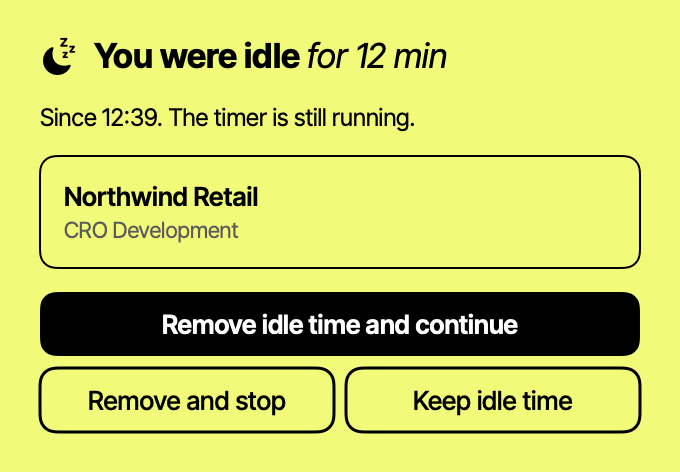
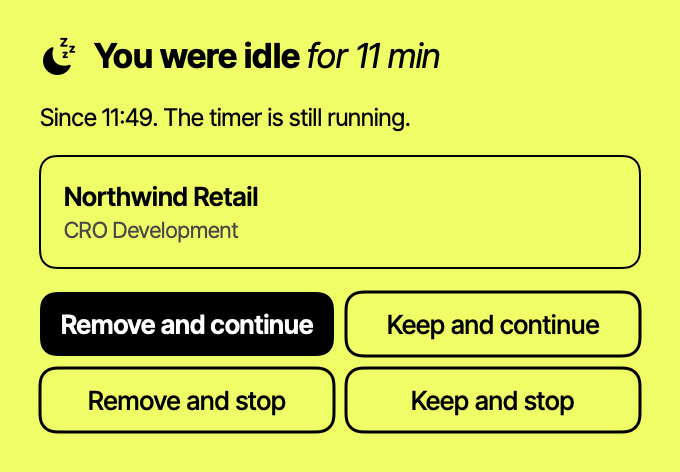
feat: the idle question can keep the idle time and stop

diff --git a/Sources/Tempo/IdleMonitor.swift b/Sources/Tempo/IdleMonitor.swift
@@ -87,7 +87,8 @@ final class IdleMonitor {
             guard let self, !dryRun else { return }
             Task {
                 switch choice {
-                case .keep: break
+                case .keepAndContinue: break
+                case .keepAndStop: await self.store.stop()
                 case .removeAndContinue: await self.store.removeIdleTime(since: idleStart, keepRunning: true)
                 case .removeAndStop: await self.store.removeIdleTime(since: idleStart, keepRunning: false)
                 }
@@ -141,7 +142,7 @@ final class IdleMonitor {
 
 /// The idle question. Mellow Yellow with black, in both themes, so it stands out on any screen.
 struct IdlePromptView: View {
-    enum Choice { case keep, removeAndContinue, removeAndStop }
+    enum Choice { case keepAndContinue, keepAndStop, removeAndContinue, removeAndStop }
 
     @EnvironmentObject var store: TimeStore
     let idleStart: Date
@@ -162,14 +163,19 @@ struct IdlePromptView: View {
                     .padding(12)
                     .overlay(RoundedRectangle(cornerRadius: 8).stroke(Color.black, lineWidth: 1))
             }
-            VStack(spacing: 6) {
-                Button("Remove idle time and continue") { choose(.removeAndContinue) }
-                    .buttonStyle(InkButtonStyle(filled: true))
-                    .keyboardShortcut(.defaultAction)
-                HStack(spacing: 6) {
+            // Columns: remove or keep the idle time. Rows: continue or stop the timer.
+            Grid(horizontalSpacing: 6, verticalSpacing: 6) {
+                GridRow {
+                    Button("Remove and continue") { choose(.removeAndContinue) }
+                        .buttonStyle(InkButtonStyle(filled: true))
+                        .keyboardShortcut(.defaultAction)
+                    Button("Keep and continue") { choose(.keepAndContinue) }
+                        .buttonStyle(InkButtonStyle(filled: false))
+                }
+                GridRow {
                     Button("Remove and stop") { choose(.removeAndStop) }
                         .buttonStyle(InkButtonStyle(filled: false))
-                    Button("Keep idle time") { choose(.keep) }
+                    Button("Keep and stop") { choose(.keepAndStop) }
                         .buttonStyle(InkButtonStyle(filled: false))
                 }
             }

diff --git a/Tests/ProductiveCoreTests/TimeStoreTests.swift b/Tests/ProductiveCoreTests/TimeStoreTests.swift
@@ -539,6 +539,19 @@ final class TimeStoreTests: XCTestCase {
         XCTAssertEqual(api.timers.filter(\.isRunning).count, 0)
     }
 
+    func testKeepIdleTimeAndStop() async {
+        // The idle question's "Keep and stop" is a plain stop: the idle minutes stay on the entry.
+        let start = Date().addingTimeInterval(-40 * 60)
+        api.entries = [TimeEntry(id: "501", day: Day(Date()), minutes: 30, note: "E97", service: cro)]
+        api.timers = [RunningTimer(id: "7001", startedAt: start, timeEntryID: "501")]
+        let store = await connectedStore()
+        await store.stop()
+        XCTAssertEqual(api.entries[0].minutes, 70)
+        XCTAssertEqual(store.entries.first { $0.id == "501" }?.minutes, 70)
+        XCTAssertFalse(store.isRunning)
+        XCTAssertEqual(api.timers.filter(\.isRunning).count, 0)
+    }
+
     func testFavouriteReplacementAfterBudgetChange() async {
         settings.favourites = [Favourite(service: Service(id: "100", name: "CRO Development", clientName: "Northwind Retail"))]
         let store = await connectedStore()

diff --git a/README.md b/README.md
@@ -19,7 +19,7 @@
 </p>
 
 <p align="center">
-  <img src="docs/images/idle.png" width="340" alt="The idle question: remove the idle time and continue, remove it and stop, or keep it">
+  <img src="docs/images/idle.png" width="340" alt="The idle question: remove or keep the idle time, then continue or stop">
 </p>
 
 ## Install
@@ -86,7 +86,7 @@ Sources: [API access with personal access tokens](https://help.productive.io/en/
 - **Monthly budgets.** A favourite moves to the new month's budget after one confirmation. A small tag
   (`Sep`) marks a service from last month's budget.
 - **Calendar meetings.** Meetings from the calendar connected in Productive show under the day. + logs one.
-- **Idle detection.** Like Harvest: when you come back, remove the idle time and continue, or stop.
+- **Idle detection.** Like Harvest: when you come back, remove or keep the idle time, then continue or stop.
 - **Automatic updates.** A new version installs in the background while the popup is closed. The timer
   keeps running.
 - **Native.** Swift, no web runtime, light and dark mode.
